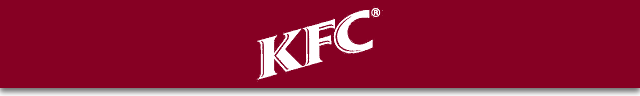
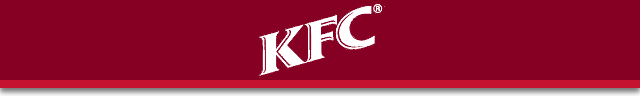
bg view added, tableview ui changed

Changed region(s): [[0.0, 0.0312, 1.0, 0.9375]]

diff --git a/KFC/KFC/KFCBackground.m b/KFC/KFC/KFCBackground.m
@@ -1,0 +1,43 @@
+//
+//  KFCBackground.m
+//  KFC
+//
+//  Created by Stanimir Nikolov on 2/18/13.
+//  Copyright (c) 2013 Dobby. All rights reserved.
+//
+
+#import "KFCBackground.h"
+
+@implementation KFCBackground
+
+- (id)initWithFrame:(CGRect)frame
+{
+    self = [super initWithFrame:frame];
+    if (self) {
+        // Initialization code
+    }
+    return self;
+}
+
+- (id)initWithCoder:(NSCoder *)aDecoder {
+    self = [super initWithCoder:aDecoder];
+    if (self) {
+        
+    }
+    return self;
+}
+
+- (void)setupBackground {
+    [self setImage:[UIImage imageNamed:@"bg.png"]];
+}
+
+/*
+// Only override drawRect: if you perform custom drawing.
+// An empty implementation adversely affects performance during animation.
+- (void)drawRect:(CGRect)rect
+{
+    // Drawing code
+}
+*/
+
+@end

diff --git a/KFC/KFC/KFCMenuViewController.m b/KFC/KFC/KFCMenuViewController.m
@@ -71,6 +71,10 @@
         cell = [[UITableViewCell alloc] initWithStyle:UITableViewCellStyleDefault reuseIdentifier:cellIdentifier];
     }
     cell.textLabel.text = ((Type*)[self.datasource objectAtIndexPath:indexPath]).name;
+    cell.textLabel.textColor = [UIColor whiteColor];
+    cell.textLabel.backgroundColor = [UIColor clearColor];
+    cell.accessoryView = [[UIImageView alloc] initWithImage:[UIImage imageNamed:@"accesory.png"]];
+    cell.backgroundColor = [UIColor colorWithWhite:1.f alpha:.35f];
     
     return cell;
 }

diff --git a/KFC/KFC/KFCBackground.h b/KFC/KFC/KFCBackground.h
@@ -1,0 +1,13 @@
+//
+//  KFCBackground.h
+//  KFC
+//
+//  Created by Stanimir Nikolov on 2/18/13.
+//  Copyright (c) 2013 Dobby. All rights reserved.
+//
+
+#import <UIKit/UIKit.h>
+
+@interface KFCBackground : UIImageView
+
+@end
